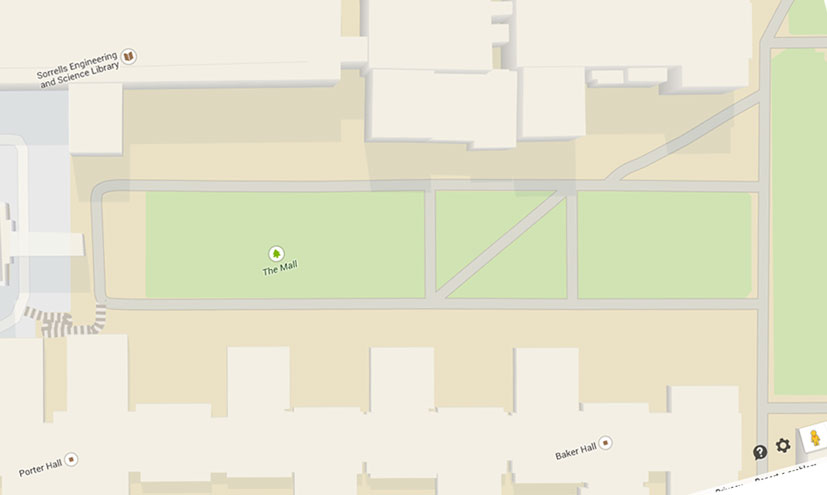
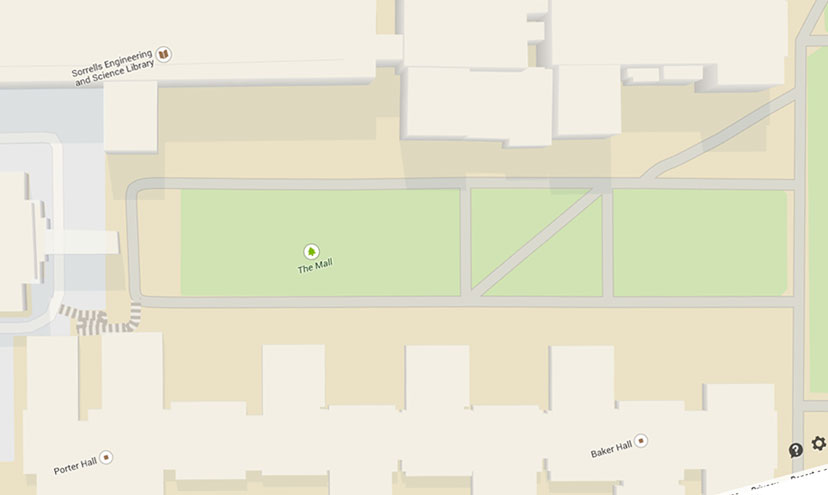
Added boundary rectangle

diff --git a/app/templates/planview.html b/app/templates/planview.html
@@ -1,0 +1,93 @@
+<!DOCTYPE html>
+<!--[if lt IE 7]>      <html class="no-js lt-ie9 lt-ie8 lt-ie7"> <![endif]-->
+<!--[if IE 7]>         <html class="no-js lt-ie9 lt-ie8"> <![endif]-->
+<!--[if IE 8]>         <html class="no-js lt-ie9"> <![endif]-->
+<!--[if gt IE 8]><!--> <html class="no-js"> <!--<![endif]-->
+    <head>
+        <meta charset="utf-8">
+        <meta http-equiv="X-UA-Compatible" content="IE=edge">
+        <title></title>
+        <meta name="description" content="">
+        <meta name="viewport" content="width=device-width, initial-scale=1">
+
+        <!-- Place favicon.ico and apple-touch-icon.png in the root directory -->
+        <link rel="stylesheet" href="{{ url_for('static', filename='css/normalize.css') }}">
+        <link rel="stylesheet" href="{{ url_for('static', filename='css/main.css') }}">
+        <link rel="stylesheet" href="{{ url_for('static', filename='css/style.css') }}">
+        <!-- Latest compiled and minified CSS -->
+        <link rel="stylesheet" href="https://maxcdn.bootstrapcdn.com/bootstrap/3.3.1/css/bootstrap.min.css">
+        <script src="{{ url_for('static', filename='js/vendor/modernizr-2.6.2.min.js') }}"></script>
+        
+    </head>
+    <body ng-app="CameraApp" ng-controller="CameraController">
+        <!--[if lt IE 7]>
+            <p class="browsehappy">You are using an <strong>outdated</strong> browser. Please <a href="http://browsehappy.com/">upgrade your browser</a> to improve your experience.</p>
+        <![endif]-->
+
+        <!-- Add your site or application content here -->
+        <!-- <img src="{{ url_for('static', filename='img/aerial-view.jpg') }}"> -->
+        <div class="container">
+            <div class="row">
+                <div class="col-md-12">
+                    <div class="panel panel-default">
+                        <div class="panel-heading">
+                            <h3 class="panel-title">Plan View</h3>
+                        </div>
+                        <div class="panel-body">
+                            <div class="row">
+                                <div class="col-md-9">
+                                    <canvas id="map-container"></canvas>
+                                    <div class="alert alert-info" role="alert">Draw the camera path of the camera.</div>
+                                </div>
+                                <div class="col-md-3">
+                                    <div class="panel panel-default">
+                                        <div class="panel-heading">
+                                            <h3 class="panel-title">Boundary Properties</h3>
+                                        </div>
+                                        <div class="panel-body">
+                                            <div class="form-group">
+                                                <label class="control-label">Top Left</label>
+                                                <div class="input-group">
+                                                    <div class="input-group-addon">X</div>
+                                                    <input type="text" class="form-control" placeholder="Top Left X" ng-model="topLeft.x" ng-blur="renderBoundaryRect()">
+                                                    <div class="input-group-addon">Y</div>
+                                                    <input type="text" class="form-control" placeholder="Top Left Y" ng-model="topLeft.y" ng-blur="renderBoundaryRect()">
+                                                </div>
+                                                <br>
+                                                <label class="control-label">Bottom Right</label>
+                                                <div class="input-group">
+                                                    <div class="input-group-addon">X</div>
+                                                    <input type="text" class="form-control" placeholder="Bottom Right X" ng-model="bottomRight.x" ng-blur="renderBoundaryRect()">
+                                                    <div class="input-group-addon">Y</div>
+                                                    <input type="text" class="form-control" placeholder="Bottom Right Y" ng-model="bottomRight.y" ng-blur="renderBoundaryRect()">
+                                                </div>
+                                                <br>
+                                                <button class="btn [[ {true: 'btn-danger', false: 'btn-success'}[boundaryRectEditable] ]]" ng-click="toggleEditing()">[[ {true: 'Disable', false: 'Enable'}[boundaryRectEditable] ]] Editing</button>
+                                                <br>
+                                                <br>
+                                                <label class="control-label">Real World Boundary Box Dimensions</label>
+                                                <div class="input-group">
+                                                    <div class="input-group-addon">W</div>
+                                                    <input type="text" class="form-control" placeholder="Width" ng-model="boundaryWidth">
+                                                    <div class="input-group-addon">H</div>
+                                                    <input type="text" class="form-control" placeholder="Height" ng-model="boundaryHeight">
+                                                </div>
+                                            </div>
+                                        </div>
+                                    </div>
+                                </div>
+                            </div>
+                        </div>
+                    </div>
+                </div>
+            </div>
+        </div>
+        
+        <script src="{{ url_for('static', filename='js/vendor/jquery-1.10.2.min.js') }}"></script>
+        <script src="https://maxcdn.bootstrapcdn.com/bootstrap/3.3.1/js/bootstrap.min.js"></script>
+        <script src="https://ajax.googleapis.com/ajax/libs/angularjs/1.2.26/angular.min.js"></script>
+        <script src="{{ url_for('static', filename='js/vendor/fabric.min.js') }}"></script>
+        <script src="{{ url_for('static', filename='js/plugins.js') }}"></script>
+        <script src="{{ url_for('static', filename='js/main.js') }}"></script>
+    </body>
+</html>

diff --git a/app/static/js/main.js b/app/static/js/main.js
@@ -1,13 +1,76 @@
-$(function () {
+var CANVAS_WIDTH = 828;
+var CANVAS_HEIGHT = 495;
+
+var BOUNDARY_RECT_TOP_LEFT_X = 51;
+var BOUNDARY_RECT_TOP_LEFT_Y = 88;
+var BOUNDARY_RECT_BOTTOM_LEFT_X = 782;
+var BOUNDARY_RECT_BOTTOM_LEFT_Y = 382;
+var BOUNDARY_RECT_REAL_WIDTH = 2095;
+var BOUNDARY_RECT_REAL_HEIGHT = 740;
+
+angular.module('CameraApp', []).config(function ($interpolateProvider) {
+    $interpolateProvider.startSymbol('[[').endSymbol(']]');
+});
+
+function CameraController ($scope) {
   var canvas = new fabric.Canvas('map-container', {
-    width: 828,
-    height: 495
+    width: CANVAS_WIDTH,
+    height: CANVAS_HEIGHT
   });
 
+  // canvas.on('mouse:down', function (options) {
+  //   console.log(options.e.clientX, options.e.clientY);
+  // });
+
+  $scope.topLeft = {x: BOUNDARY_RECT_TOP_LEFT_X, y: BOUNDARY_RECT_TOP_LEFT_Y};
+  $scope.bottomRight = {x: BOUNDARY_RECT_BOTTOM_LEFT_X, y: BOUNDARY_RECT_BOTTOM_LEFT_Y};
+  $scope.boundaryWidth = BOUNDARY_RECT_REAL_WIDTH;
+  $scope.boundaryHeight = BOUNDARY_RECT_REAL_HEIGHT;
+  $scope.boundaryRectEditable = true;
+
+  function getBoundaryRectProps () {
+    return {
+      width: $scope.bottomRight.x - $scope.topLeft.x, 
+      height: $scope.bottomRight.y - $scope.topLeft.y,
+      left: $scope.topLeft.x, 
+      top: $scope.topLeft.y
+    }
+  }
+
+  var boundaryRect = new fabric.Rect({
+    fill: 'rgba(0,188,140,0.2)',
+    lockRotation: true
+  });
+  boundaryRect.set(getBoundaryRectProps());
+
+  canvas.on('object:modified', function (object) {
+    updateBoundaryRect(object.target);
+  });
+
+  function updateBoundaryRect (rect) {
+    $scope.topLeft.x = Math.round(rect.left);
+    $scope.topLeft.y = Math.round(rect.top);
+    $scope.bottomRight.x = Math.round(rect.left + rect.currentWidth);
+    $scope.bottomRight.y = Math.round(rect.top + rect.currentHeight);
+    $scope.$apply();
+  }
+
+  $scope.renderBoundaryRect = function () {
+    boundaryRect.set(getBoundaryRectProps());
+    canvas.renderAll();
+  };
+
+  $scope.toggleEditing = function () {
+    $scope.boundaryRectEditable = !$scope.boundaryRectEditable;
+    boundaryRect.set({
+      selectable: $scope.boundaryRectEditable
+    });
+    canvas.renderAll();
+  };
 
   fabric.Image.fromURL('/static/img/aerial-view.jpg', function (img) {
     img.set('selectable', false);
     canvas.add(img);
+    canvas.add(boundaryRect);
   });
-
-});
+}

diff --git a/app/static/css/style.css b/app/static/css/style.css
@@ -1,4 +1,3 @@
-#map-container {
-  height: 495px;
-  width: 828px;
+.canvas-container {
+  margin-bottom: 20px;
 }

diff --git a/app/controllers.py b/app/controllers.py
@@ -8,6 +8,6 @@ from app import app
 def hello_world():
     return render_template('index.html')
 
-@app.route('/aerial')
+@app.route('/planview')
 def render_aerial():
-    return render_template('aerial.html')
+    return render_template('planview.html')
